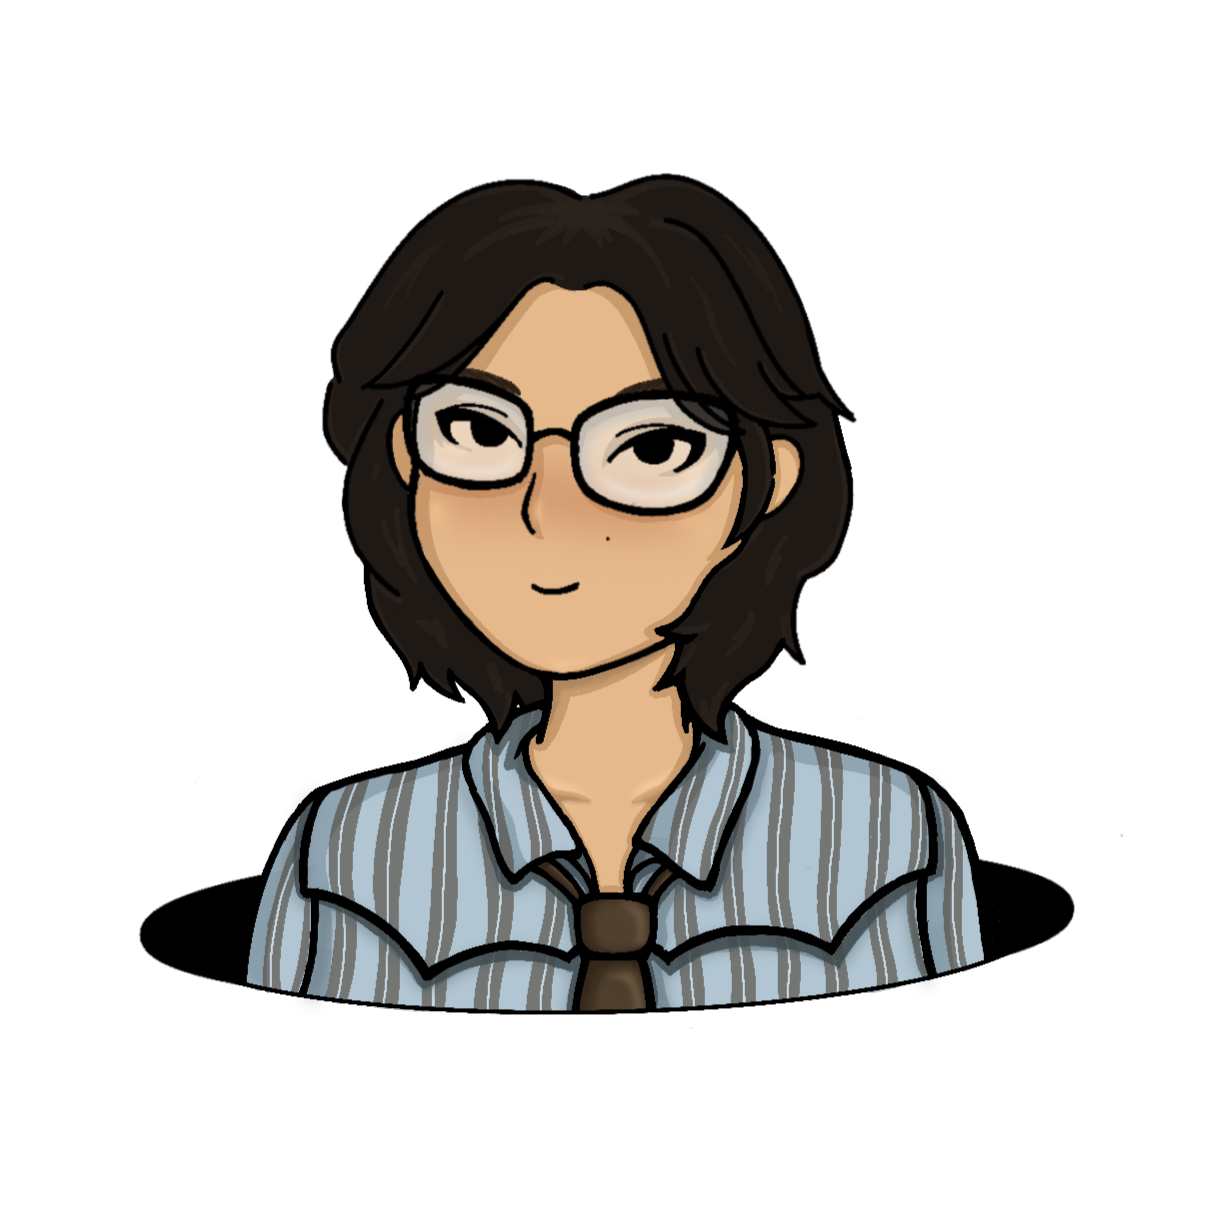
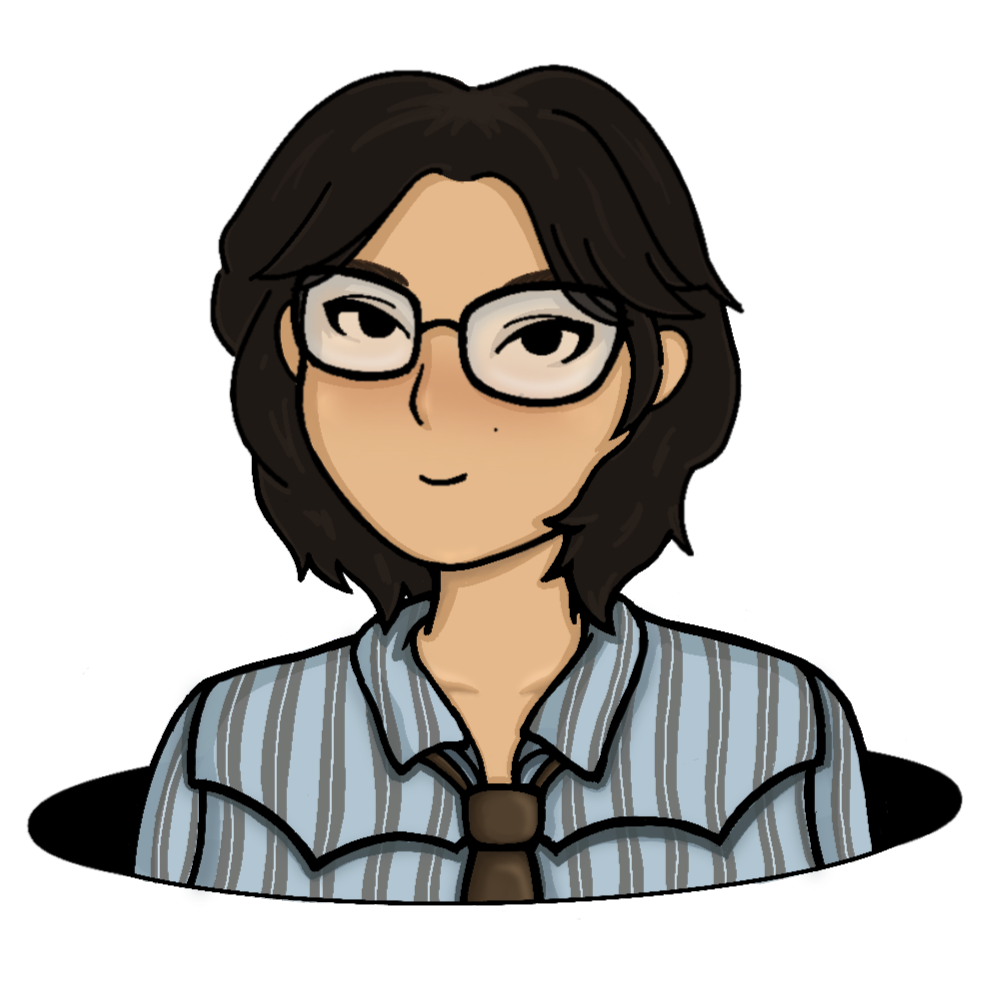
update-260526

diff --git a/style.css b/style.css
@@ -493,6 +493,132 @@ a{
     }
 }
 
+@media (max-width: 425px) {
+  #home .home-text h3.mobile-only {
+        font-size: 40px !important;
+        line-height: 1.2 !important;
+        text-align: left !important;
+        display: block;
+        font-family: 'Playfair Display', serif;
+        font-size: 40px;
+        color: #3a2d28;
+        font-style: italic;
+    }
+
+    #home .home-img {
+        position: absolute !important;
+        top: 145px !important;
+        right: 60px !important;
+        width: 174px !important;
+        transform: rotate(-12deg) !important;
+        z-index: 10 !important;
+    }
+
+    #home .home-text h3, #home .home-text h1 {
+        text-align: left !important;
+        width: 100% !important;
+        justify-content: center !important;
+        font-size: 64px;
+    }
+    
+    .home-text h1 b span {
+      display: inline-block;
+      color: #3a2d28;
+      position: relative;
+      white-space: nowrap;
+      animation: move 15s infinite;
+      font-size: 64px;
+      letter-spacing: 2px;
+      line-height: 64px;
+      padding-top: 0;
+    }
+
+}
+@media (max-width: 375px) {
+  #home .home-text h3.mobile-only {
+        font-size: 34px !important;
+        line-height: 1.2 !important;
+        text-align: left !important;
+        display: block;
+        font-family: 'Playfair Display', serif;
+        font-size: 40px;
+        color: #3a2d28;
+        font-style: italic;
+    }
+
+    #home .home-img {
+        position: absolute !important;
+        top: 154px !important;
+        right: 52px !important;
+        width: 156px !important;
+        transform: rotate(-12deg) !important;
+        z-index: 10 !important;
+    }
+
+    #home .home-text h3, #home .home-text h1 {
+        text-align: left !important;
+        width: 100% !important;
+        justify-content: center !important;
+        font-size: 55px;
+    }
+    
+    .home-text h1 b span {
+    display: inline-block;
+    color: #3a2d28;
+    position: relative;
+    white-space: nowrap;
+    animation: move 15s infinite;
+    font-size: 55px;
+    letter-spacing: 2px;
+    line-height: 64px;
+    padding-top: 0;
+  }
+}
+@media (max-width: 320px) {
+  #home .home-text h3.mobile-only {
+        font-size: 30px !important;
+        line-height: 1.2 !important;
+        text-align: left !important;
+        display: block;
+        font-family: 'Playfair Display', serif;
+        font-size: 40px;
+        color: #3a2d28;
+        font-style: italic;
+    }
+
+    #home .home-img {
+        position: absolute !important;
+        top: 159px !important;
+        right: 48px !important;
+        width: 140px !important;
+        transform: rotate(-12deg) !important;
+        z-index: 10 !important;
+    }
+
+    #home .home-text {
+    max-width: 88% !important;
+    }
+
+    #home .home-text h3, #home .home-text h1 {
+        text-align: left !important;
+        width: 100% !important;
+        justify-content: center !important;
+        font-size: 46px;
+    }
+    
+    .home-text h1 b span {
+    display: inline-block;
+    color: #3a2d28;
+    position: relative;
+    white-space: nowrap;
+    animation: move 15s infinite;
+    font-size: 46px;
+    letter-spacing: 2px;
+    line-height: 64px;
+    padding-top: 0;
+  }
+}
+
 #js-ticker-roll span {
   display: flex;
   flex-direction: row; /* Changed from column */
